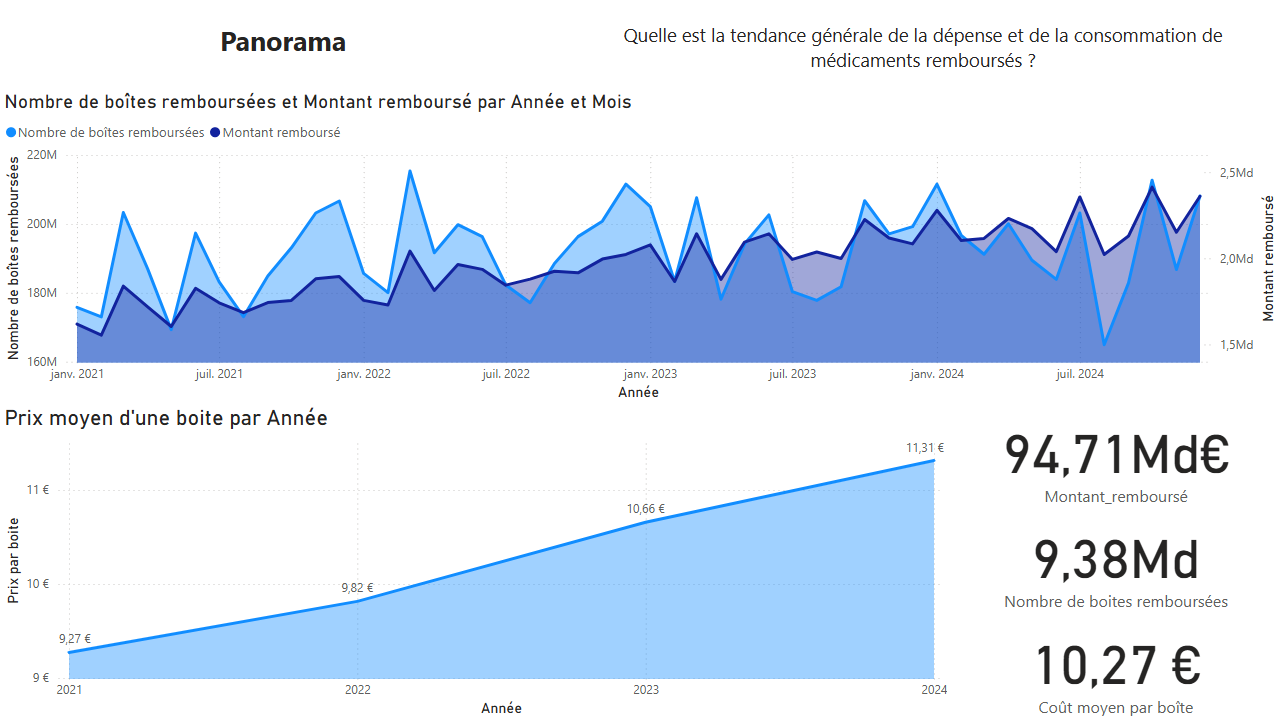
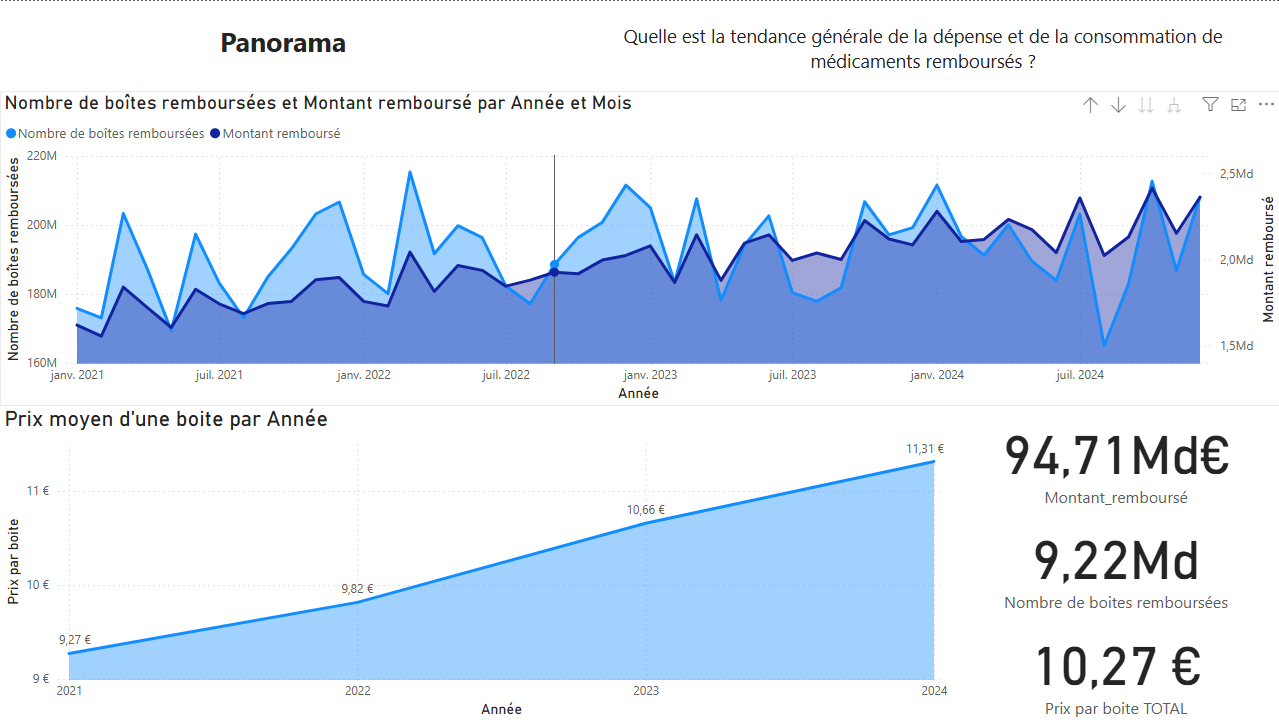
texte premier png

diff --git a/app_pages/medicaments.py b/app_pages/medicaments.py
@@ -5,19 +5,28 @@ def md_justify(txt: str):
     st.markdown(f"<div style='text-align: justify'>{txt}</div>", unsafe_allow_html=True)
 
 def render():
-    st.title("Coût de prise en charge des médicaments dispensés en ville en France")
+    st.title("Analyse des coûts et volumes des médicaments remboursés (France, 2021-2024)")
     st.markdown("---")
 
     st.subheader("Contexte du projet")
-    md_justify("En France, l'Assurance Maladie joue un rôle central dans la prise en charge des dépenses de santé. "
-               "Ce projet propose une analyse détaillée des coûts liés aux médicaments dispensés en ville sur la période 2021-2024.<br><br>"
+    md_justify("Ce projet Power BI vise à monitorer et analyser les dépenses de santé liées aux médicaments de ville." 
+               "L'objectif était d'identifier les tendances de consommation et les coûts associés afin d'optimiser la gestion des ressources de santé publique dans un contexte post-pandémique et inflationniste.<br><br>" 
                "Les données exploitées proviennent de la plateforme publique <b>data.gouv.fr</b>.<br><br>"
                "L'analyse s'appuie sur la classification ATC (Anatomique, Thérapeutique et Chimique) et explore les données à différents niveaux de granularité :<br>"
                "- Classe thérapeutique<br>"
                "- Classe pharmacologique<br>"
                "- Classe chimique<br>"
                "- Substance chimique<br><br>"
-               "Ce projet a été réalisé à l'aide de Power BI.")
+)
+    
+    st.subheader("Méthodologie & Visualisation :")
+    st.justify("- Analyse temporelle : Mise en parallèle du volume (boîtes) et de la valeur (montant remboursé) pour repérer les décrochages. On note une saisonnalité marquées avec des pics hivernaux et des creux estivaux.<br>" 
+    "- Indicateur coût unitaire : Focus spécifique sur l'évolution du prix moyen part boîte, révélant une tendance inflationniste.<br>"
+    "- KPIs macro : Vue d'ensemble sur la période (94 Mrd€ de dépenses pour 9.3 Mrd de boîtes). <br>")
+
+    st.subheader("Insights Clés :")
+    st.justify("1. un effet 'Ciseaux' : ALors que les volumes semblent suivre une saisonnalité stable, le montant remboursé montre des pics de plus en plus hauts, suggérant que la hausse des dépenses n'est pas uniquement due à une surconsommation.<br>"
+               "2. Inflation du coût moyen : L'insight majeur est l'augmentation continue du prix moyen de la boîte remboursée, passant de 9.27€ en 2021 à 11.31€ en 2024, soit une augmentation de +22% en 4 ans. Cela soulève une question : consommons-nous des médicaments plus chers, ou les médicaments existants coûtent-ils plus cher?<br>")
 
         # Chemins (depuis la racine du projet)
     ROOT = Path(__file__).resolve().parents[1]
